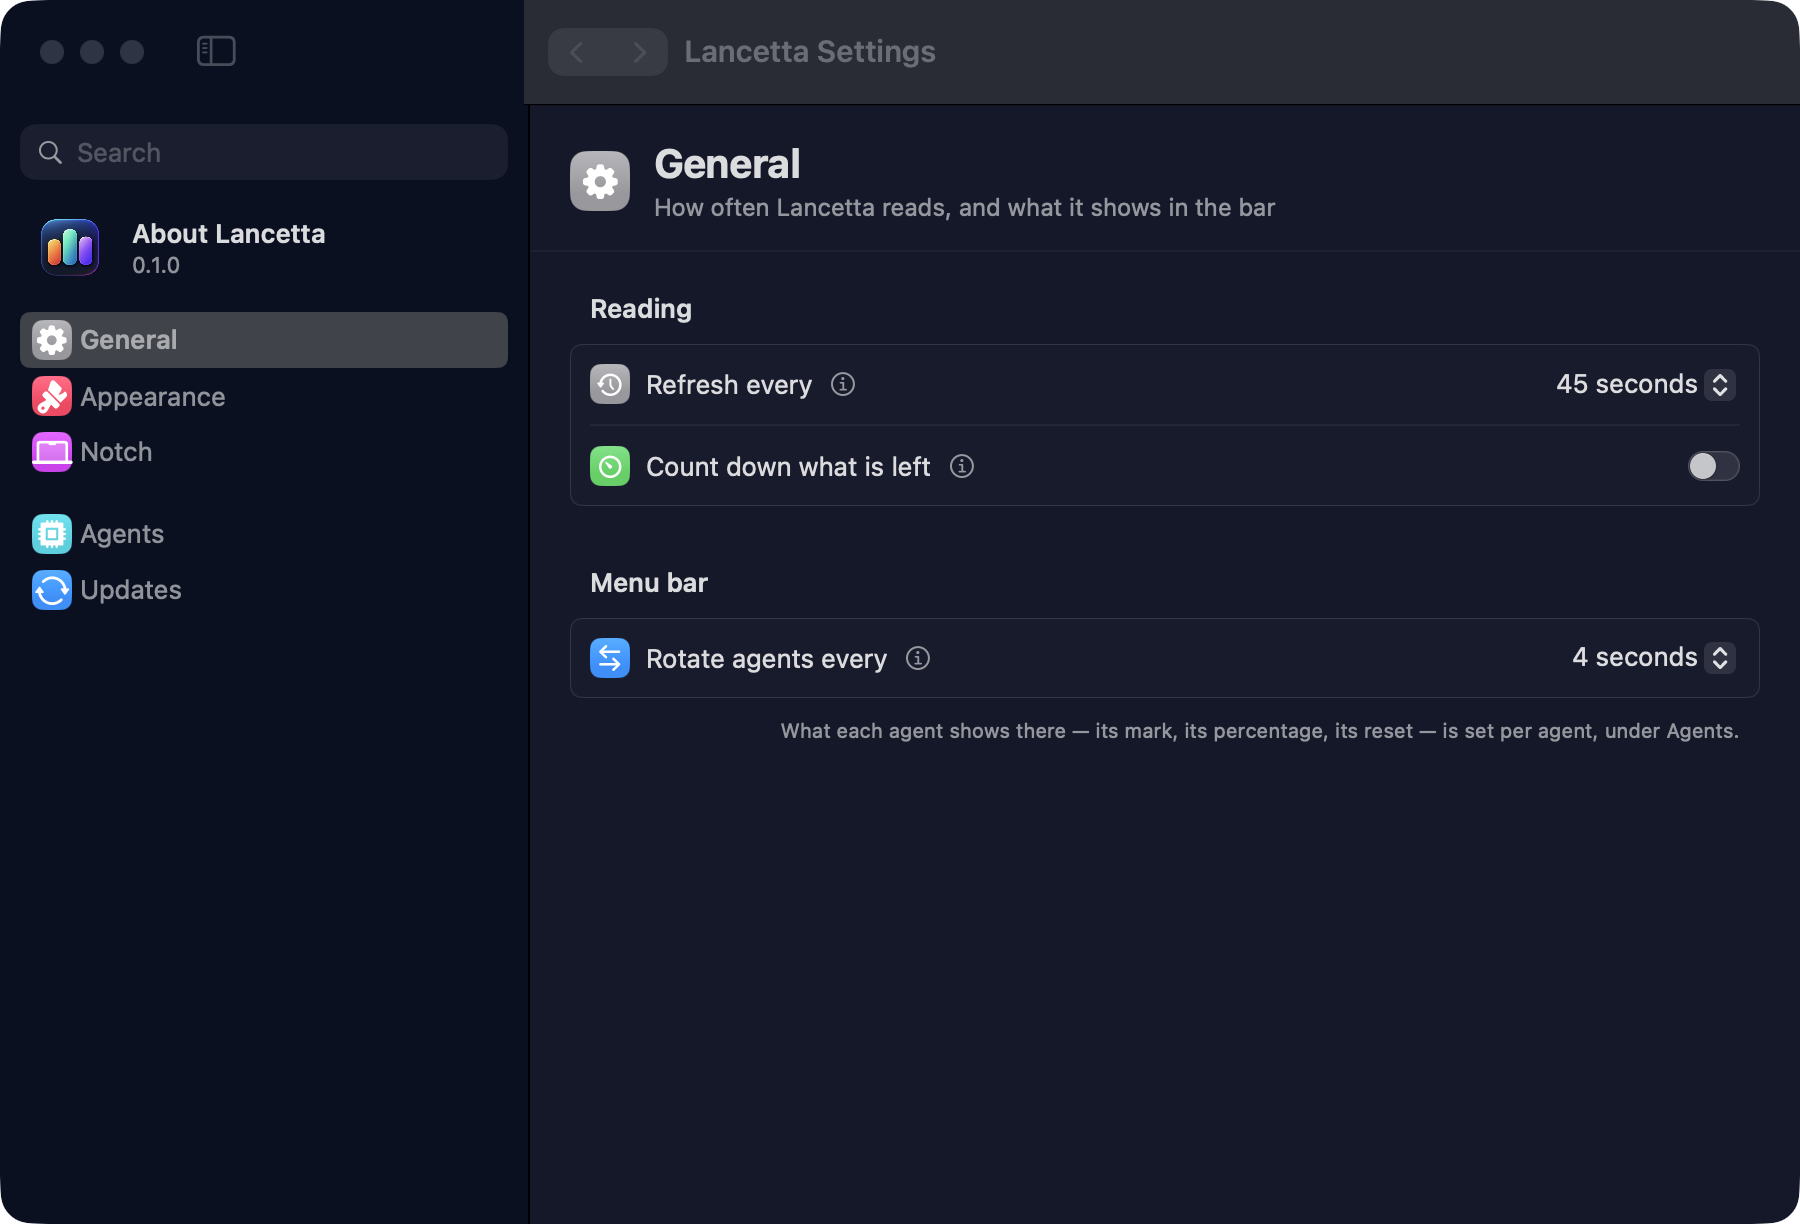
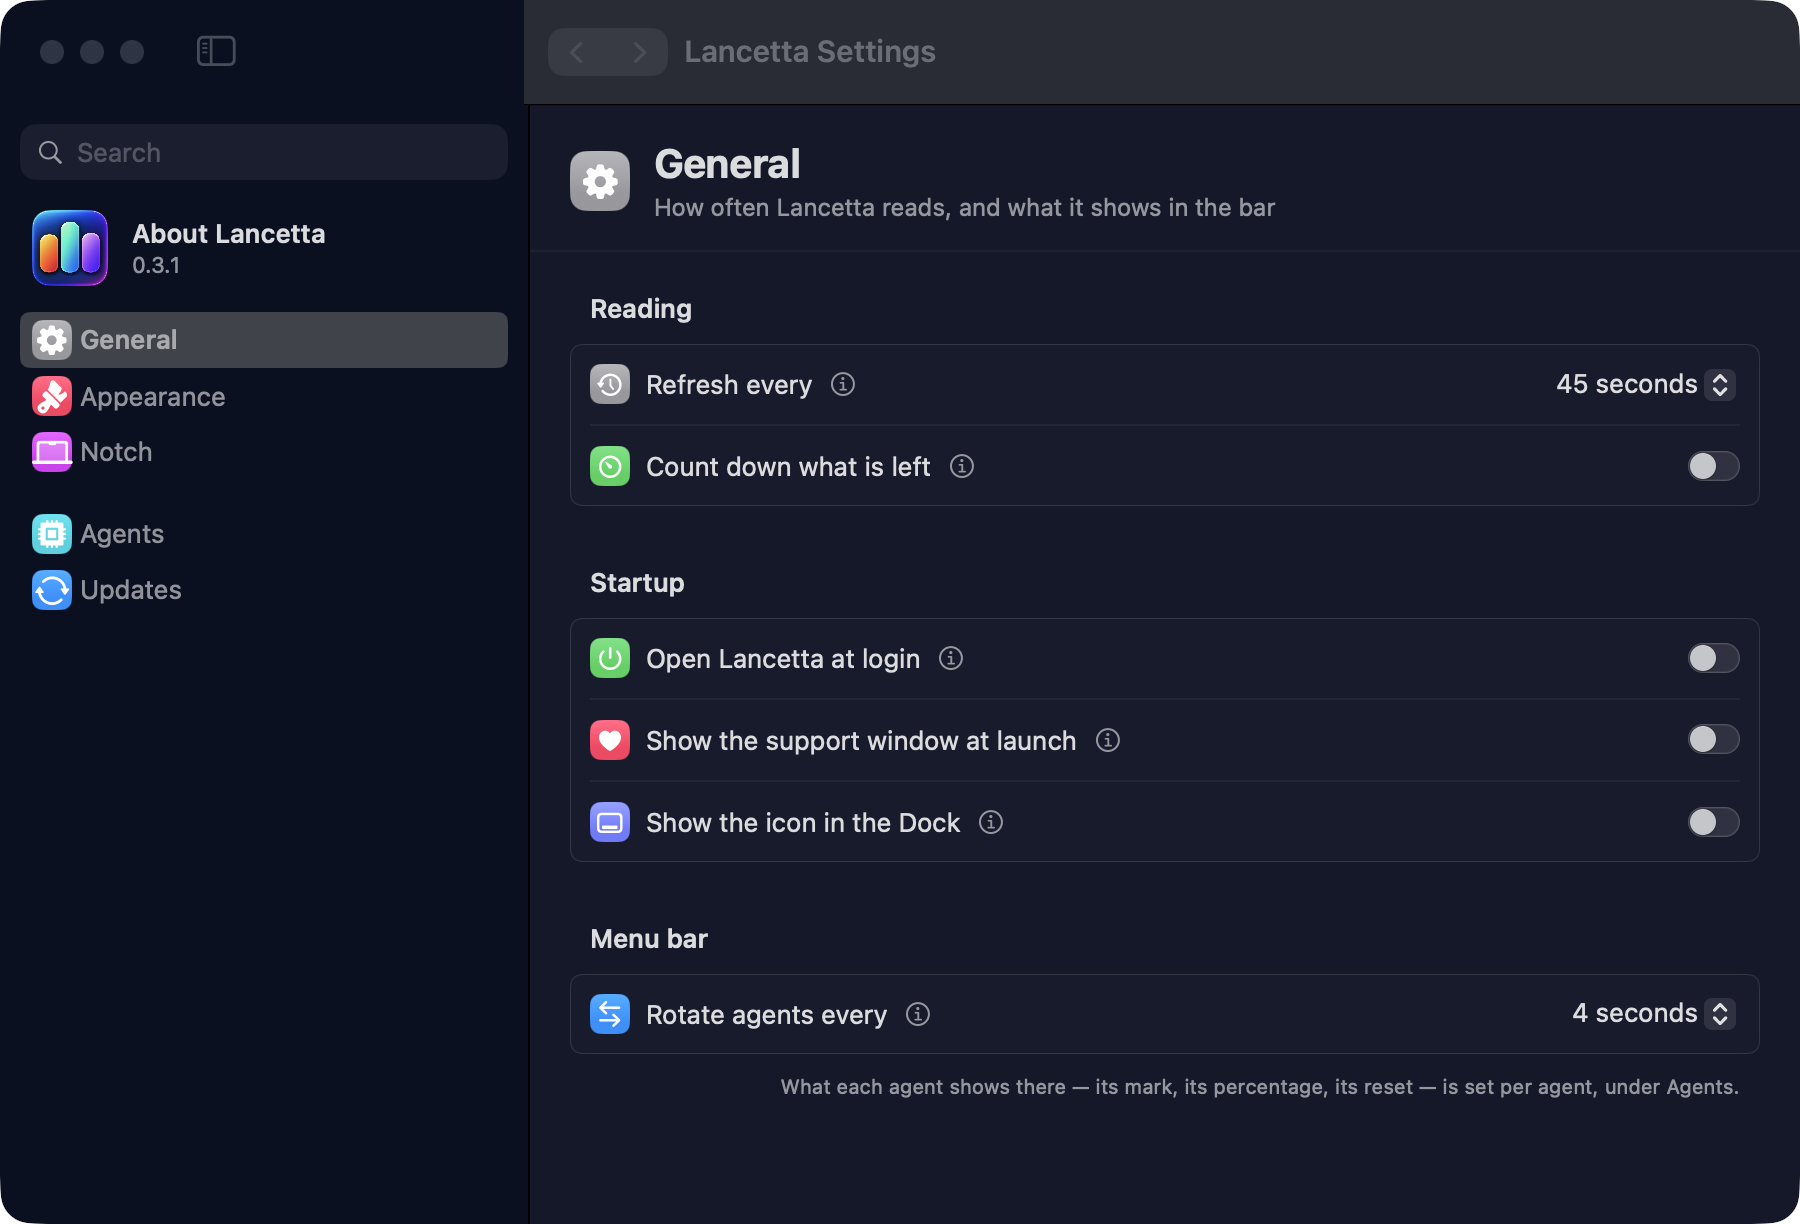
docs(settings): a screenshot per pane, from the installed 0.3.1
The Settings page had one picture, of the General pane, taken from a 0.1.0 dev build with the previous icon in its sidebar. Now every pane has one: General (reshot), Appearance, Notch, Agents, both agent pages, Updates and About, all from the installed 0.3.1 through the LANCETTA_OPEN hatch, dark, en_GB, captured by window id and read frame by frame before being copied here: neither agent page names anything under the home directory on this Mac (Codex reads Homebrew's binary, Claude on the account route names no path). Reading the General frame also found a switch the page never mentioned, Show the support window at launch, which now has its line. Compressed with oxipng; the General shot went from 191 to 147 KB.

diff --git a/CLAUDE.md b/CLAUDE.md
@@ -218,15 +218,23 @@ see.
 window and Settings, and a hover on the notch for the island.
 
 Published today: the menu in both appearances, the island collapsed and open,
-the window's Overview, Usage and Limits panes, and Settings → General.
+the window's Overview, Usage and Limits panes, and every Settings pane: General,
+Appearance, Notch, Agents, both agent pages, Updates and About. The Settings set
+was reshot on 2026-09-18 from the INSTALLED 0.3.1 with
+`../Lancetta/scripts/settings-shots.sh`, one launch per pane through the
+`LANCETTA_OPEN` hatch, because the dev bundle is ad-hoc signed and would ask for
+the keychain item again while the shipped build already holds the grant.
 
 **Two surfaces may not be published, and both for the same reason.** The
 **Processes pane** lists each tree by the directory it was started for, and an
 **agent's page in Settings** carries the absolute path that agent is read from.
 On a developer's Mac both contain the home directory, and therefore the user's
 name, and often the names of their employer's repositories. Check what is in the
-frame before publishing, every time — a proper pipeline with fixture values
-belongs with v0.4, alongside the rest of *Distribution*.
+frame before publishing, every time — a proper pipeline with fixture values is
+still to come. Both agent pages went out on 2026-09-18 after that read: Codex's
+line names `/opt/homebrew/bin/codex` and nothing under the home directory, and
+Claude's names no path at all on the account route. On a Mac where `codex` lives
+under `~`, the Codex page is not publishable.
 
 **`APP_LANG=en_GB` is not optional.** The app ships no localised strings and
 still renders dates and numbers through the system locale, so captured on an
